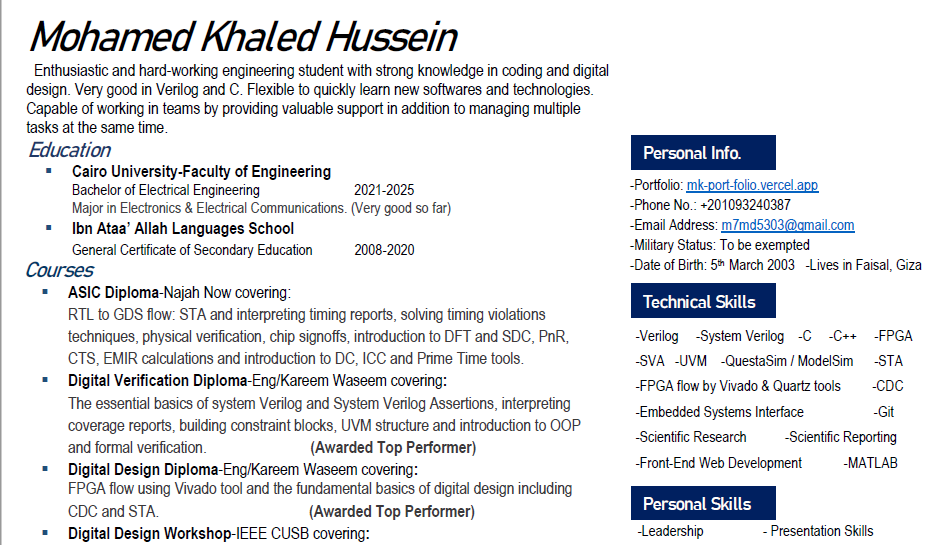
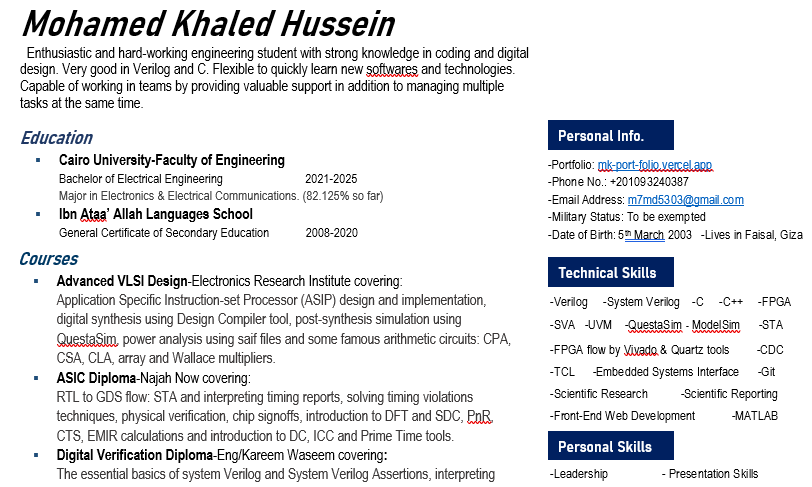
m

Changed region(s): [[0.0, 0.0, 0.6773, 1.0], [0.6773, 0.2464, 1.0, 0.9856]]

diff --git a/src/Components/Dmlfccmp.jsx b/src/Components/Dmlfccmp.jsx
@@ -15,7 +15,7 @@ export default function Dmlfccmp({imgd}) {
             <img src={imgd}alt='Loading⏳'/>
             <button onClick={()=>{setShow(!show)}} >{show? "Hide" :"Show"} </button>
             {show? <div className='dcourses'>
-       <Dbluec title={"Advanced VLSI Design: ASIP Design and implementation course"} para={"The course was provided by the Electronics Research Institute. It covered:\n-Application Specific Instruction-Set Processors (ASIP) Design and implementation.\nDigital Synthesis using Design Compiler tool.\nPost-synthesis Simulation using QuestaSim.\nPower analysis using saif files.\nSome famous arithmetic circuits: CPA, CSA, CLA, array and Wallace multipliers."} img={asip}/>
+       <Dbluec title={"Advanced VLSI Design: ASIP Design and implementation course"} para={"The course was provided by the Electronics Research Institute. It covered:\n-Application Specific Instruction-Set Processors (ASIP) Design and implementation.\nDigital Synthesis using Design Compiler tool.\n-Post-synthesis Simulation using QuestaSim.\n-Power analysis using saif files.\n-Some famous arithmetic circuits: CPA, CSA, CLA, array and Wallace multipliers."} img={asip}/>
        <Dyellowc title={"ASIC Diploma"} para={"The Diploma was provided by NajahNow Co.. I have submitted all the required assignments disciplined with their deadlines. The course covered RTL to GDS flow through: \n-Contrasting the difference between FPGA and ASIC flow. \n-Introducing lib files and flavors used for cells. \n-STA and interpretation of timing reports along with timing violations solution techniques.\n-Floorplanning, power planning, placement, routing and CTS. \n-Chip signoffs as well as physical verification and EMIR calculations. \n-Introduction to DFT, SDC and formal verification. \n-Introduction to DC, ICC and Prime Time tools. "}img={nn} />        
        <Dbluec title={"Digital Verification Diploma"} para={"  The Diploma was provided by Eng.Kareem Waseem. It covered essential topics regarding digital verification. I had the honour to be awarded as one of the top performers throughout the diploma. The diploma content covered : \n-System Verilog Data types, tasks and functions.\n-System Verilog interfaces and how to use it in the design,testbench and the monitor files.\n-Enhancing the ability of establishing a good verification plan.\n-The way of constructing functional cover groups. \n-The way of constructing constraint blocks. \n-System Verilog Assertions. \n-Basics of OOP.\n-UVM structure and how to create a UVM based verification environment."}img={ver}/>
        <Dyellowc title={"Digital Design Diploma"}para={"  The Diploma was provided by Eng.Kareem Waseem. It covered many important topics concerning digital design. I was also awarded as one of the top performers throughout the diploma. The diploma content covered : \n-History of HDLs.\n-Verilog HDL and design flows.\n-Digital Design using Vivado flow.\n-Practising both combinational and sequential circuits design.\n-Practising both combinational and sequential circuits test benches.\n-Finite state machines (mealy and moore).\n-Memories.\n-Field Programmable Gate Array (FPGA).\n-Clock Domain Crossing.\n-Static Timing Analysis."} img={dd}/>

diff --git a/src/Components/About.jsx b/src/Components/About.jsx
@@ -123,7 +123,7 @@ export default function About() {
     <div className='cvtxt'>
 <h1>My C.V.</h1>
 <p>Eventually, you can easily view my updated C.V. from the link below.😃</p>
-<Link to="https://drive.google.com/file/d/1xso3OgsS9o2e3PxT9m7r4KlWqXnvECpc/view?usp=sharing">M.K. C.V. </Link>
+<Link to="https://drive.google.com/file/d/1U0yHogKNA7mFEwmv7FFZwgA_GKo5fh-X/view?usp=sharing">M.K. C.V. </Link>
     </div>
     <img src={cv}alt='Loading⏳'/>
 </div>

diff --git a/src/Components/Dmrcmp.jsx b/src/Components/Dmrcmp.jsx
@@ -20,6 +20,7 @@ export default function Dmrcmp({imgd}) {
            <li>Universal Verification Methodology (UVM)</li>
            <li>Clock Domain Crossing (CDC)</li>
            <li>Static Timing analysis (STA)</li>
+           <li>Tool Command Language (TCL)</li>
            
            </ul>
             </div> :null}
